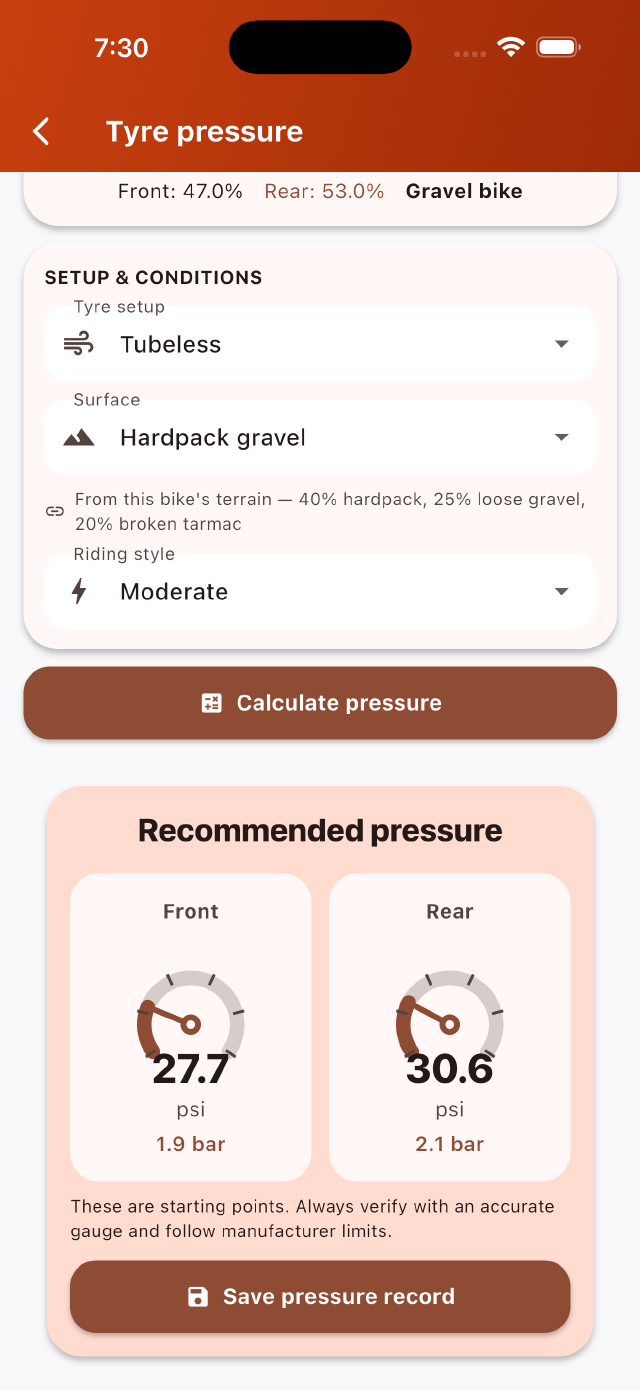
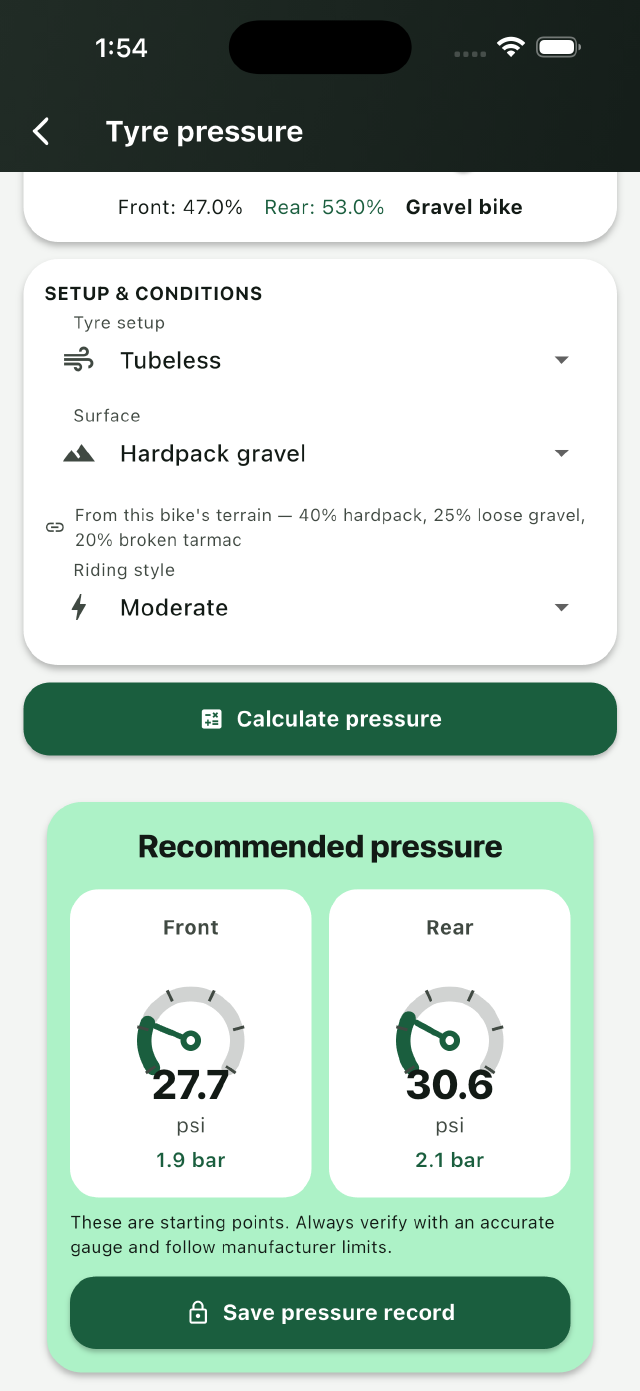
Match the site to Zinc and Racing Green
The app repalettes in build 6 and the site was still the orange it replaced,
so cc.velostables.com was advertising a colour the download no longer is.

Tokens now mirror lib/theme.dart: accent #1A5E3E light and #5FBF8F dark, on a
zinc ground rather than the old warm one. The phone bezel takes the app's own
header chrome, so the frame on the homepage is the colour of the bar inside it.

The tertiary ink is a fix, not a translation. It carried the nav and footer
links at 4.37:1 on the old ground — under AA before this palette arrived. The
new value measures 4.79:1.

assets/icon.png and favicon.png are copied from the app's regenerated web
icons. og.png and shot-pressure.png are rebuilt from build 6's capture.

The social card's ground is the light zinc, not the icon's field: the app icon
is itself dark green now, and on a dark card it vanished — the mark read as a
white wheel floating on nothing. That is recorded in tool-make-assets.py so the
next repalette does not rediscover it.

All four pages parse clean, every referenced asset resolves, and a sweep finds
no value from the old palette left anywhere.

diff --git a/assets/style.css b/assets/style.css
@@ -2,34 +2,39 @@
    No build step, no fonts to fetch, no JavaScript. */
 
 :root {
-  /* Action orange. 5.00:1 on white, so it can carry link and button text.
-     The identity orange #E8541F (the icon's field) fails AA at 3.6:1 and is
-     therefore never used for text — it lives in the icon and the social card. */
-  --brand: #C8400F;
-  --brand-deep: #9E2B07;
+  /* Zinc and Racing Green — the app's palette, matched.
+     The orange this replaced measured dE2000 3.6 from Strava's brand orange,
+     which is the same colour to anyone with both apps installed.
+     Accent 7.06:1 on the ground, 7.74:1 under white. */
+  --brand: #1A5E3E;
+  --brand-deep: #0F4429;
   --brand-ink: #FFFFFF;
-  --ground: #FBFAF8;
+  --chrome: #1B2420;
+  --ground: #F3F5F3;
   --surface: #FFFFFF;
-  --ink: #1A1D20;
-  --ink-2: #454C53;
-  --ink-3: #6E777F;
-  --rule: #E2DFD9;
-  --sunk: #F2F0EC;
+  --ink: #121A15;
+  --ink-2: #46514A;
+  /* 4.79:1. The previous tertiary ink measured 4.37:1 and carried the nav and
+     footer links, so it was under AA before this palette arrived. */
+  --ink-3: #636F68;
+  --rule: #DDE3DE;
+  --sunk: #EAEFEB;
   --good: #1F6B4C;
 }
 
 @media (prefers-color-scheme: dark) {
   :root {
-    --brand: #FF8A54;
-    --brand-deep: #FFA470;
-    --brand-ink: #1A1D20;
-    --ground: #131619;
-    --surface: #1A1E22;
-    --ink: #E9EBED;
-    --ink-2: #B4BCC3;
-    --ink-3: #8A939B;
-    --rule: #2B3137;
-    --sunk: #21262B;
+    --brand: #5FBF8F;
+    --brand-deep: #7FD0A5;
+    --brand-ink: #08130D;
+    --chrome: #0E1512;
+    --ground: #11150F;
+    --surface: #181D19;
+    --ink: #E4EAE6;
+    --ink-2: #AFBAB3;
+    --ink-3: #85908A;
+    --rule: #2A322C;
+    --sunk: #1F251F;
     --good: #6FC49C;
   }
 }
@@ -203,11 +208,11 @@ footer.site p { margin: 0 0 8px; }
 .hero .lede { margin-bottom: 22px; }
 
 .device {
-  background: #17130F;
+  background: var(--chrome);
   border-radius: 30px;
   padding: 7px;
   line-height: 0;
-  box-shadow: 0 1px 2px rgba(20,17,15,.24), 0 22px 44px -22px rgba(20,17,15,.5);
+  box-shadow: 0 1px 2px rgba(12,18,15,.24), 0 22px 44px -22px rgba(12,18,15,.5);
 }
 .device img { width: 100%; height: auto; display: block; border-radius: 23px; }
 @media (max-width: 719px) {

diff --git a/methodology/index.html b/methodology/index.html
@@ -8,7 +8,7 @@
 <link rel="icon" href="../assets/favicon.png">
 <link rel="stylesheet" href="../assets/style.css">
 <link rel="canonical" href="https://cc.velostables.com/methodology/">
-<meta name="theme-color" content="#C8400F">
+<meta name="theme-color" content="#1B2420">
 <meta property="og:type" content="website">
 <meta property="og:site_name" content="Cyclist Companion">
 <meta property="og:title" content="How pressure is calculated — Cyclist Companion">

diff --git a/index.html b/index.html
@@ -8,7 +8,7 @@
 <link rel="icon" href="assets/favicon.png">
 <link rel="stylesheet" href="assets/style.css">
 <link rel="canonical" href="https://cc.velostables.com/">
-<meta name="theme-color" content="#C8400F">
+<meta name="theme-color" content="#1B2420">
 <meta property="og:type" content="website">
 <meta property="og:site_name" content="Cyclist Companion">
 <meta property="og:title" content="Cyclist Companion — tyre pressure, gears and fit for your bikes">

diff --git a/privacy/index.html b/privacy/index.html
@@ -8,7 +8,7 @@
 <link rel="icon" href="../assets/favicon.png">
 <link rel="stylesheet" href="../assets/style.css">
 <link rel="canonical" href="https://cc.velostables.com/privacy/">
-<meta name="theme-color" content="#C8400F">
+<meta name="theme-color" content="#1B2420">
 <meta property="og:type" content="website">
 <meta property="og:site_name" content="Cyclist Companion">
 <meta property="og:title" content="Privacy Policy — Cyclist Companion">

diff --git a/support/index.html b/support/index.html
@@ -8,7 +8,7 @@
 <link rel="icon" href="../assets/favicon.png">
 <link rel="stylesheet" href="../assets/style.css">
 <link rel="canonical" href="https://cc.velostables.com/support/">
-<meta name="theme-color" content="#C8400F">
+<meta name="theme-color" content="#1B2420">
 <meta property="og:type" content="website">
 <meta property="og:site_name" content="Cyclist Companion">
 <meta property="og:title" content="Support — Cyclist Companion">

diff --git a/tool-make-assets.py b/tool-make-assets.py
@@ -22,10 +22,13 @@ APP = pathlib.Path('/Users/cetadmin/cyclist_companion')
 SHOT_SRC = APP / 'store/screenshots/6.9-inch/01-pressure.png'
 ICON_SRC = SITE / 'assets/icon.png'
 
-# Target brand tokens: Identity -> Deep. Phase C brings the app icon to these.
-IDENTITY = (0xE8, 0x54, 0x1F)
-DEEP = (0x9E, 0x2B, 0x07)
-BEZEL = (0x14, 0x11, 0x10)
+# The social card's ground. It is the light zinc, not the icon's dark field:
+# the app icon is itself dark green, so a dark card swallowed it whole — the
+# mark read as a white wheel floating on nothing. Light ground separates both
+# the icon and the phone's dark bezel.
+IDENTITY = (0xF3, 0xF5, 0xF3)
+DEEP = (0xDD, 0xE5, 0xE0)
+BEZEL = (0x0C, 0x12, 0x0F)
 
 
 # --------------------------------------------------------------------------
